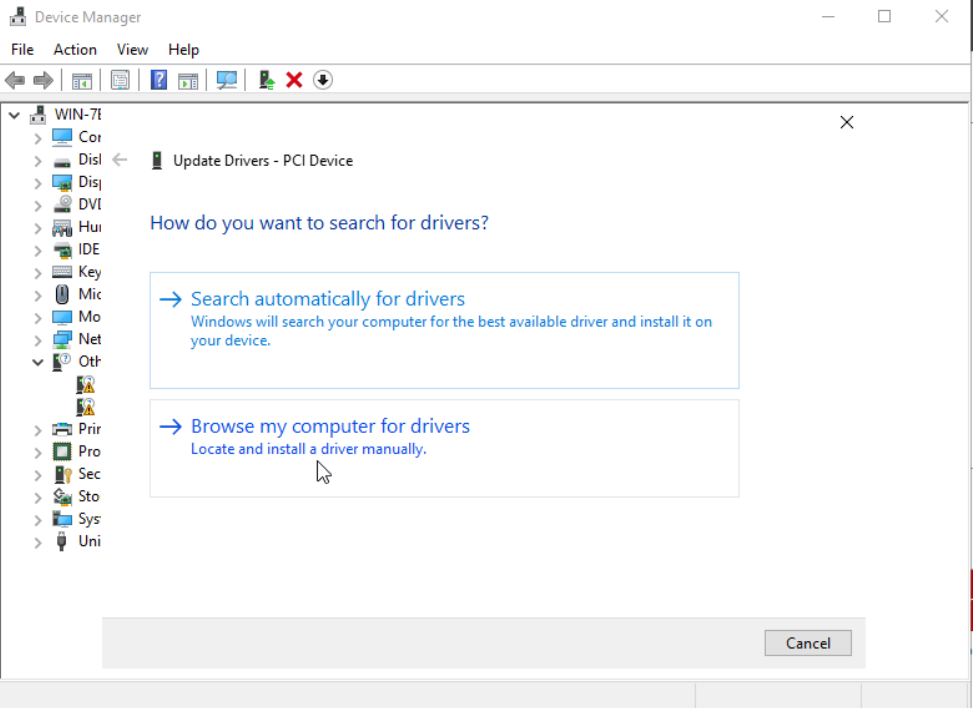
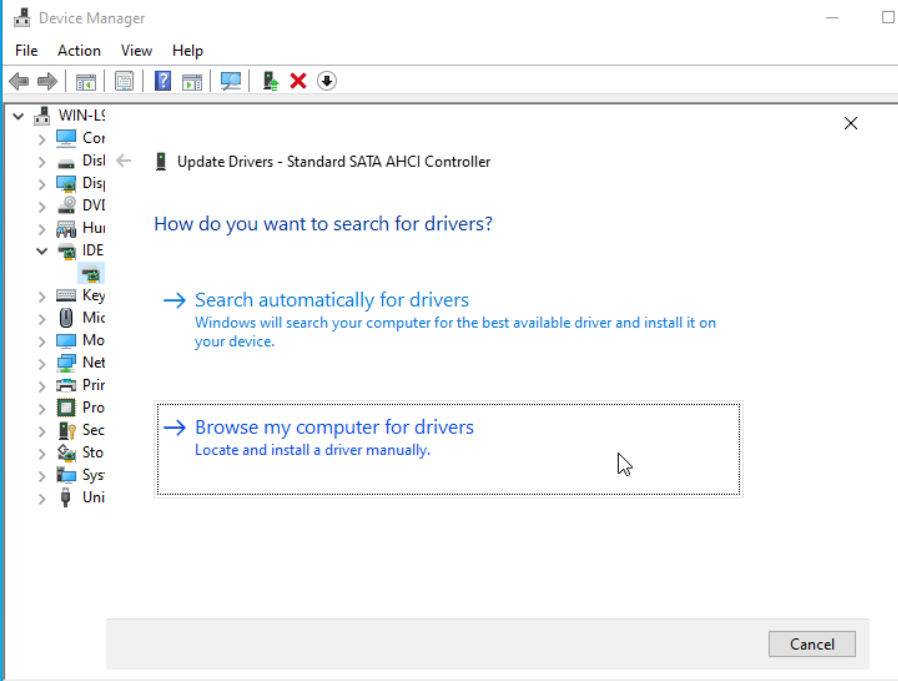
Install guide finished

diff --git a/WindowsServerSetup/WindowsServer2022OnProxmox.md b/WindowsServerSetup/WindowsServer2022OnProxmox.md
@@ -1,3 +1,8 @@
+# Setting up windows server 2022 on Proxmox
+
+## Prerequisites
+Prior to following this guide, you should have working knowledge of how to create VM's on Proxmox.
+
 ## 1. ISO Images
 1. Download the **Windows Server 2022 Trial ISO** (usable for 180 days).
 2. Download the **VirtIO drivers ISO** from [Proxmox VirtIO Drivers](https://pve.proxmox.com/wiki/Windows_VirtIO_Drivers).
@@ -62,6 +67,8 @@ Compared to general Linux VMs, there are a few extra steps because a driver inte
 ## 4. Installing Windows Server
 1. Start the Proxmox VM and switch to the console screen.
 2. If you do not press any key fast enough during boot, restart the VM (send **Ctrl+Alt+Delete**).  
+_There is a strange bug, where the Proxmox will fail to boot, and get stuck, if you do not press any key fast enough_
+  
    ![Alt text](image-11.png)
 3. When asked for a product key, choose **I don't have a product key** to use the trial version.  
 4. Select **Windows Server 2022 Standard (Desktop Experience)** (unless you only want PowerShell).  
@@ -80,7 +87,12 @@ Compared to general Linux VMs, there are a few extra steps because a driver inte
 11. Set your password when prompted.
 12. Send **Ctrl+Alt+Delete** to access the login screen.  
     ![Alt text](image-18.png)
-13. Open _Device Manager_, and check if any drivers are missing. Install any missing drivers from the VirtIO drivers located on the local drive.  
-    ![Alt text](image-19.png)  
-    ![Alt text](image-20.png)  
-    ![Alt text](image-21.png)
+13. Open _Device Manager_, and check if any drivers are missing. Install any missing drivers from the VirtIO drivers located on the local drive, by browsing
+for the drivers, and selecting the disc with _Virtio_ drivers. Select the entire disc as source, then windows will auto-detect the drivers  
+    
+![Alt text](image-19.png)
+![Alt text](image-20.png)
+![Alt text](image-21.png)
+
+
+## Configuring Static IP address.

diff --git a/WindowsServerSetup/AddingServices.md b/WindowsServerSetup/AddingServices.md
@@ -1,0 +1,4 @@
+`Get-WindowsFeature`
+`Get-WindowsFeature -Name Active*` List all roles with _Active_ in the name
+`Get-WindowsFeature <Feature name>` installs feature name
+`Get-WindowsFeature | Where Installed` shows all installed features
